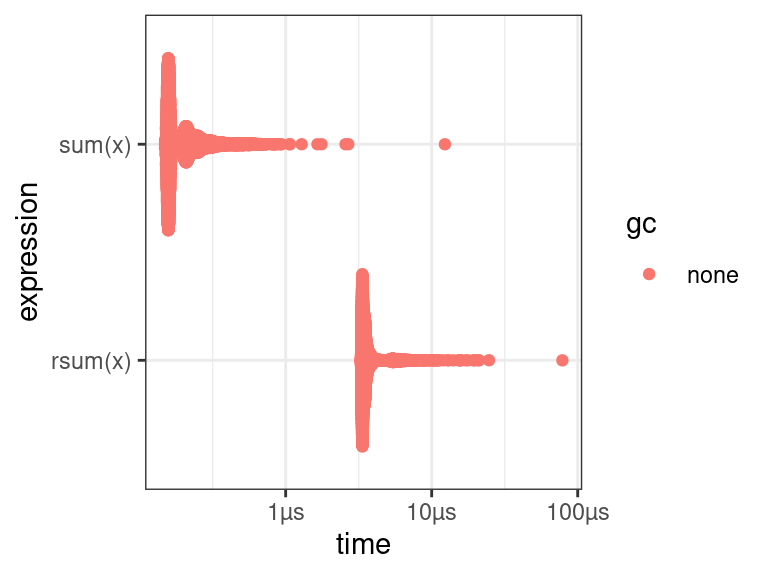
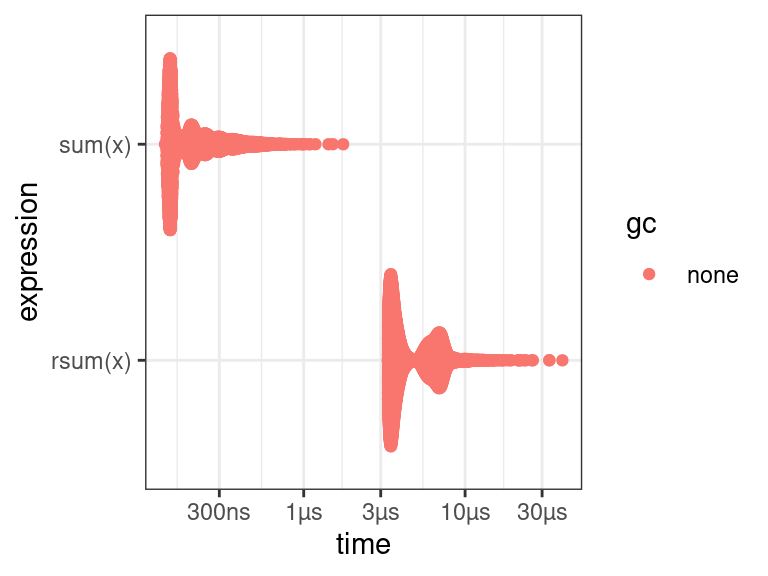
finish faster recs

diff --git a/docs/07_faster.html b/docs/07_faster.html
@@ -11,7 +11,7 @@
 
 <meta name="author" content="David Gerard" />
 
-<meta name="date" content="2022-02-07" />
+<meta name="date" content="2022-02-11" />
 
 <title>Performant R Code</title>
 
@@ -50,6 +50,101 @@
     </style>
 
 
+<style type="text/css">
+  code {
+    white-space: pre;
+  }
+  .sourceCode {
+    overflow: visible;
+  }
+</style>
+<style type="text/css" data-origin="pandoc">
+pre > code.sourceCode { white-space: pre; position: relative; }
+pre > code.sourceCode > span { display: inline-block; line-height: 1.25; }
+pre > code.sourceCode > span:empty { height: 1.2em; }
+.sourceCode { overflow: visible; }
+code.sourceCode > span { color: inherit; text-decoration: inherit; }
+div.sourceCode { margin: 1em 0; }
+pre.sourceCode { margin: 0; }
+@media screen {
+div.sourceCode { overflow: auto; }
+}
+@media print {
+pre > code.sourceCode { white-space: pre-wrap; }
+pre > code.sourceCode > span { text-indent: -5em; padding-left: 5em; }
+}
+pre.numberSource code
+  { counter-reset: source-line 0; }
+pre.numberSource code > span
+  { position: relative; left: -4em; counter-increment: source-line; }
+pre.numberSource code > span > a:first-child::before
+  { content: counter(source-line);
+    position: relative; left: -1em; text-align: right; vertical-align: baseline;
+    border: none; display: inline-block;
+    -webkit-touch-callout: none; -webkit-user-select: none;
+    -khtml-user-select: none; -moz-user-select: none;
+    -ms-user-select: none; user-select: none;
+    padding: 0 4px; width: 4em;
+    color: #aaaaaa;
+  }
+pre.numberSource { margin-left: 3em; border-left: 1px solid #aaaaaa;  padding-left: 4px; }
+div.sourceCode
+  {   }
+@media screen {
+pre > code.sourceCode > span > a:first-child::before { text-decoration: underline; }
+}
+code span.al { color: #ff0000; font-weight: bold; } /* Alert */
+code span.an { color: #60a0b0; font-weight: bold; font-style: italic; } /* Annotation */
+code span.at { color: #7d9029; } /* Attribute */
+code span.bn { color: #40a070; } /* BaseN */
+code span.bu { } /* BuiltIn */
+code span.cf { color: #007020; font-weight: bold; } /* ControlFlow */
+code span.ch { color: #4070a0; } /* Char */
+code span.cn { color: #880000; } /* Constant */
+code span.co { color: #60a0b0; font-style: italic; } /* Comment */
+code span.cv { color: #60a0b0; font-weight: bold; font-style: italic; } /* CommentVar */
+code span.do { color: #ba2121; font-style: italic; } /* Documentation */
+code span.dt { color: #902000; } /* DataType */
+code span.dv { color: #40a070; } /* DecVal */
+code span.er { color: #ff0000; font-weight: bold; } /* Error */
+code span.ex { } /* Extension */
+code span.fl { color: #40a070; } /* Float */
+code span.fu { color: #06287e; } /* Function */
+code span.im { } /* Import */
+code span.in { color: #60a0b0; font-weight: bold; font-style: italic; } /* Information */
+code span.kw { color: #007020; font-weight: bold; } /* Keyword */
+code span.op { color: #666666; } /* Operator */
+code span.ot { color: #007020; } /* Other */
+code span.pp { color: #bc7a00; } /* Preprocessor */
+code span.sc { color: #4070a0; } /* SpecialChar */
+code span.ss { color: #bb6688; } /* SpecialString */
+code span.st { color: #4070a0; } /* String */
+code span.va { color: #19177c; } /* Variable */
+code span.vs { color: #4070a0; } /* VerbatimString */
+code span.wa { color: #60a0b0; font-weight: bold; font-style: italic; } /* Warning */
+
+</style>
+<script>
+// apply pandoc div.sourceCode style to pre.sourceCode instead
+(function() {
+  var sheets = document.styleSheets;
+  for (var i = 0; i < sheets.length; i++) {
+    if (sheets[i].ownerNode.dataset["origin"] !== "pandoc") continue;
+    try { var rules = sheets[i].cssRules; } catch (e) { continue; }
+    for (var j = 0; j < rules.length; j++) {
+      var rule = rules[j];
+      // check if there is a div.sourceCode rule
+      if (rule.type !== rule.STYLE_RULE || rule.selectorText !== "div.sourceCode") continue;
+      var style = rule.style.cssText;
+      // check if color or background-color is set
+      if (rule.style.color === '' && rule.style.backgroundColor === '') continue;
+      // replace div.sourceCode by a pre.sourceCode rule
+      sheets[i].deleteRule(j);
+      sheets[i].insertRule('pre.sourceCode{' + style + '}', j);
+    }
+  }
+})();
+</script>
 
 
 
@@ -263,14 +358,20 @@ $(document).ready(function () {
 
 <h1 class="title toc-ignore">Performant R Code</h1>
 <h4 class="author">David Gerard</h4>
-<h4 class="date">2022-02-07</h4>
+<h4 class="date">2022-02-11</h4>
 
 </div>
 
 <div id="TOC">
 <ul>
 <li><a href="#learning-objectives">Learning Objectives</a></li>
-<li><a href="#new-functions">New Functions</a></li>
+<li><a href="#motivation">Motivation</a></li>
+<li><a href="#keep-multiple-approaches">Keep Multiple Approaches</a></li>
+<li><a href="#use-less-general-functions">Use Less General Functions</a></li>
+<li><a href="#vectorize">Vectorize</a></li>
+<li><a href="#avoid-copies">Avoid Copies</a></li>
+<li><a href="#write-in-c">Write in C++</a></li>
+<li><a href="#references">References</a></li>
 </ul>
 </div>
 
@@ -287,8 +388,77 @@ $(document).ready(function () {
 <li>Strategies for faster R code.</li>
 </ul>
 </div>
-<div id="new-functions" class="section level1">
-<h1>New Functions</h1>
+<div id="motivation" class="section level1">
+<h1>Motivation</h1>
+<ul>
+<li>Before you get started, the <strong>two rules of software optimization</strong> are <span class="citation">[@jackson1975principles]</span>:
+<ol style="list-style-type: decimal">
+<li>Don’t do it.</li>
+<li>Don’t do it yet (for experts only).</li>
+</ol></li>
+</ul>
+</div>
+<div id="keep-multiple-approaches" class="section level1">
+<h1>Keep Multiple Approaches</h1>
+<ul>
+<li><p>Your first goal should be clarity and robustness, not speed.</p></li>
+<li><p>Write code in an unoptimized but clear.</p></li>
+<li><p>Once you have it working and you want to optimize, do not delete that approach.</p></li>
+<li><p>Rather, write a new function with the new approach, and compare the old and new approaches in a unit test.</p></li>
+</ul>
+</div>
+<div id="use-less-general-functions" class="section level1">
+<h1>Use Less General Functions</h1>
+<ul>
+<li><p>Using functions that are specific to a problem is almost always faster than using functions that are general.</p></li>
+<li><p>Using <code>rowSums()</code> (very specific) is faster than <code>apply()</code> (very general).</p></li>
+<li><p>Using <code>vapply()</code> (prespecifies output so more specific) is faster than <code>sapply()</code> (does not prespecify output).</p></li>
+<li><p><code>any(x == 10)</code> is faster than <code>10 %in% x</code> because testing for equality is more specific than testing for inclusion.</p></li>
+</ul>
+</div>
+<div id="vectorize" class="section level1">
+<h1>Vectorize</h1>
+<ul>
+<li><p>Vectorization means operating on whole vectors instead of individual elements of a vectors.</p></li>
+<li><p>E.g., doing</p>
+<div class="sourceCode" id="cb1"><pre class="sourceCode r"><code class="sourceCode r"><span id="cb1-1"><a href="#cb1-1" aria-hidden="true" tabindex="-1"></a>x <span class="ot">&lt;-</span> <span class="dv">1</span><span class="sc">:</span><span class="dv">100</span></span>
+<span id="cb1-2"><a href="#cb1-2" aria-hidden="true" tabindex="-1"></a>x <span class="ot">&lt;-</span> x <span class="sc">+</span> <span class="dv">1</span></span></code></pre></div>
+<p>instead of</p>
+<div class="sourceCode" id="cb2"><pre class="sourceCode r"><code class="sourceCode r"><span id="cb2-1"><a href="#cb2-1" aria-hidden="true" tabindex="-1"></a>x <span class="ot">&lt;-</span> <span class="dv">1</span><span class="sc">:</span><span class="dv">100</span></span>
+<span id="cb2-2"><a href="#cb2-2" aria-hidden="true" tabindex="-1"></a><span class="cf">for</span> (i <span class="cf">in</span> <span class="fu">seq_along</span>(x)) {</span>
+<span id="cb2-3"><a href="#cb2-3" aria-hidden="true" tabindex="-1"></a>  x[[i]] <span class="ot">&lt;-</span> x[[i]] <span class="sc">+</span> <span class="dv">1</span></span>
+<span id="cb2-4"><a href="#cb2-4" aria-hidden="true" tabindex="-1"></a>}</span></code></pre></div></li>
+<li><p>It is almost always faster to vectorize because a lot of those underlying implementations are written in C (which is faster).</p></li>
+<li><p>Whenever you use a for-loop, first think if there is another way that you can do it without the for-loop.</p></li>
+<li><p>I don’t mean try using <code>map()</code> or <code>lapply()</code>, since those aren’t much faster than for-loops.</p></li>
+<li><p>I mean try to use base operations where possible.</p></li>
+<li><p>Use subassignment:</p>
+<div class="sourceCode" id="cb3"><pre class="sourceCode r"><code class="sourceCode r"><span id="cb3-1"><a href="#cb3-1" aria-hidden="true" tabindex="-1"></a>x[<span class="fu">is.na</span>(x)] <span class="ot">&lt;-</span> <span class="dv">0</span></span></code></pre></div></li>
+<li><p>Use look-up tables</p>
+<div class="sourceCode" id="cb4"><pre class="sourceCode r"><code class="sourceCode r"><span id="cb4-1"><a href="#cb4-1" aria-hidden="true" tabindex="-1"></a>x <span class="ot">&lt;-</span> <span class="fu">c</span>(<span class="at">a =</span> <span class="st">&quot;alive&quot;</span>, <span class="at">d =</span> <span class="st">&quot;dead&quot;</span>)</span>
+<span id="cb4-2"><a href="#cb4-2" aria-hidden="true" tabindex="-1"></a>y <span class="ot">&lt;-</span> <span class="fu">sample</span>(<span class="fu">c</span>(<span class="st">&quot;a&quot;</span>, <span class="st">&quot;d&quot;</span>), <span class="dv">10</span>, <span class="cn">TRUE</span>)</span>
+<span id="cb4-3"><a href="#cb4-3" aria-hidden="true" tabindex="-1"></a>x[y]</span></code></pre></div>
+<pre><code>##       d       a       a       d       a       a       d       d       a       a 
+##  &quot;dead&quot; &quot;alive&quot; &quot;alive&quot;  &quot;dead&quot; &quot;alive&quot; &quot;alive&quot;  &quot;dead&quot;  &quot;dead&quot; &quot;alive&quot; &quot;alive&quot;</code></pre></li>
+<li><p>Use R’s linear algebra operations. Whenever you can convert operations to linear algebra, it tends to run super fast since there are lots of optimizations that occur in the C libraries R uses.</p></li>
+</ul>
+</div>
+<div id="avoid-copies" class="section level1">
+<h1>Avoid Copies</h1>
+<ul>
+<li><p>Pre-define your outputs before you fill them up in a for-loop.</p></li>
+<li><p>Copy-on-modify is very expensive. You can only avoid it if you pre-define your outputs.</p></li>
+<li><p>If you cannot pre-define your outputs, use a list, since lists just make shallow copies when they copy-on-modify.</p></li>
+</ul>
+</div>
+<div id="write-in-c" class="section level1">
+<h1>Write in C++</h1>
+<ul>
+<li>If you need to use a for-loop, and you cannot vectorize, that is when you shift to C.</li>
+</ul>
+</div>
+<div id="references" class="section level1">
+<h1>References</h1>
 </div>
 
 <!DOCTYPE html>

diff --git a/docs/07_profiling.html b/docs/07_profiling.html
@@ -556,8 +556,8 @@ $(document).ready(function () {
 <pre><code>## # A tibble: 2 × 6
 ##   expression      min   median `itr/sec` mem_alloc `gc/sec`
 ##   &lt;bch:expr&gt; &lt;bch:tm&gt; &lt;bch:tm&gt;     &lt;dbl&gt; &lt;bch:byt&gt;    &lt;dbl&gt;
-## 1 sum(x)     149.01ns 164.03ns  4685866.        0B        0
-## 2 rsum(x)      3.26µs   3.44µs   272821.    68.4KB        0</code></pre>
+## 1 sum(x)     138.07ns 189.06ns  4482724.        0B        0
+## 2 rsum(x)      3.31µs   3.86µs   201372.    68.4KB        0</code></pre>
 <p>So running <code>sum()</code> a million times would take about 0.2 seconds. Running <code>rsum()</code> a million times would take about 5 seconds.</p>
 <p>But rarly do you need to run <code>sum()</code> a million times, so typically either one is OK in real life.</p></li>
 <li><p>Always pay attention to the units. 1 ms <span class="math inline">\(&gt;\)</span> 1 µs <span class="math inline">\(&gt;\)</span> 1 ns.</p>
@@ -572,13 +572,14 @@ $(document).ready(function () {
 </ul>
 <div id="exercise-1" class="section level2">
 <h2>Exercise</h2>
-<p>For summing up the columns of a matrix, I can think of at least three ways</p>
+<p>For summing up the columns of a matrix, I can think of at least four ways</p>
 <ol style="list-style-type: decimal">
 <li><code>colSums()</code></li>
 <li>Matrix multiplication on the left by a vector of <code>1</code>’s</li>
 <li>Using a for-loop on the columns, calculating the sum each time.</li>
+<li>Using functional programming with <code>apply()</code>.</li>
 </ol>
-<p>Create functions that implements all three of these approaches and tell me which one is the fastest for <span class="math inline">\(100\times 100\)</span>, <span class="math inline">\(1000\times 100\)</span>, and <span class="math inline">\(100\times 1000\)</span> matrices.</p>
+<p>Create functions that implements all four of these approaches and tell me which one is the fastest for <span class="math inline">\(100\times 100\)</span>, <span class="math inline">\(1000\times 100\)</span>, and <span class="math inline">\(100\times 1000\)</span> matrices.</p>
 </div>
 </div>
 <div id="new-functions" class="section level1">
